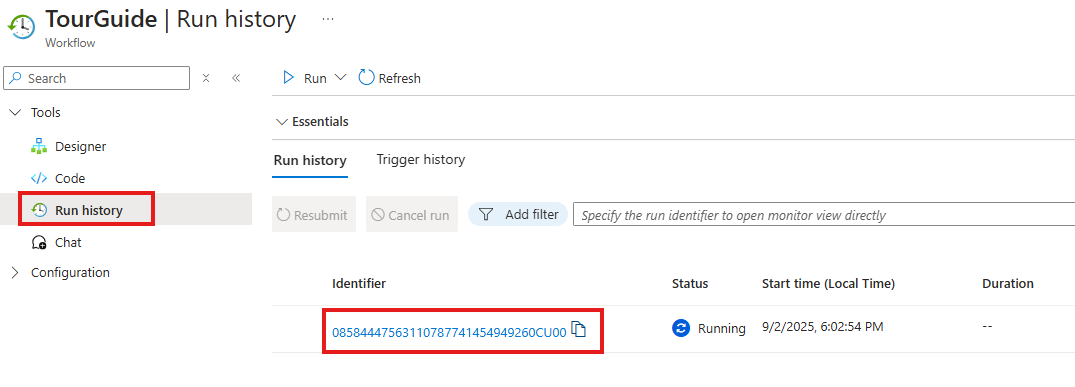
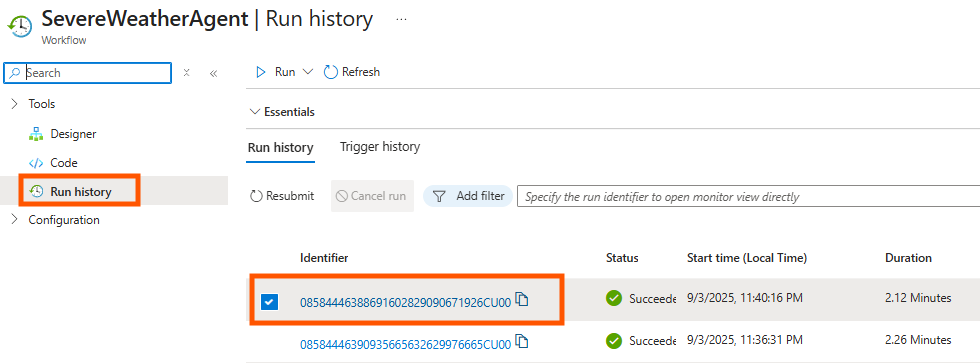
Update screenshots for module 2 and 3

diff --git a/docs/logicapps-ai-course/03_build_autonomous_agents/02-debug-agent.md b/docs/logicapps-ai-course/03_build_autonomous_agents/02-debug-agent.md
@@ -11,12 +11,12 @@ ms.author: absaafan
 In this module you will learn how to observe, inspect, and debug the agent built in Module 01. You will distinguish model (reasoning) issues from workflow or integration issues, view the chat transcript, inspect tool executions, and capture deeper telemetry for ongoing monitoring.
 
 By the end, you will:
-- View run history for agent chat sessions.
+- View run history for agent.
 - Inspect agent reasoning steps and tool invocation details.
 - Locate and review model inputs and outputs safely.
 - Differentiate model misalignment vs connector/action failure.
 
-You continue using the same TourGuide workflow created earlier.
+You continue using the same Severe Weather Advisory Agent workflow created earlier.
 
 ---
 
@@ -28,10 +28,7 @@ You continue using the same TourGuide workflow created earlier.
 ## Debugging overview
 An autonomous agent run consists of: agent loop reasoning (decide, tool, respond); tool executions (workflow actions); model interactions (system + context + user prompt and model replies); workflow runtime (triggers, actions, retries, latency, failures). You drill from run status down to specific reasoning or action artifacts to isolate the cause.
 
-The run history or monitoring view for a conversational agent run consists of the following parts.
-
-#### Task timeline
-The task timeline lets you navigate between different tasks in that chat session and into the steps in each of those tasks. Clicking on the agent execution in a task will load that task and execution into the workflow canvas.
+The run history or monitoring view for an autonomous agent run consists of the following parts.
 
 #### Workflow canvas
 The workflow canvas is the same workflow canvas you might know from your other Azure Logic App workflows. The canvas will show and highlight any tools that have ran in that agent task and action(s) inside that tool.
@@ -40,7 +37,7 @@ The workflow canvas is the same workflow canvas you might know from your other A
 The action panel loads the inputs and outputs of the action you are inspecting. If you are inspecting the agent action, the input will show the most recent input into the agent and the output will show the result of the agent chat completion. There is also a metadata section for agent actions that shows things like token usage for that agent execution.
 
 #### Agent log
-The agent log shows the conversation chat history for that session so far. The agent messages are shown as "Assistant - `{agent name}`" messages and clicking on the hyperlinked agent name will navigate to the task where that output was given by the agent.
+The agent log is read only and shows the history for that session so far. The agent messages are shown as "Assistant - `{agent name}`" messages and clicking on the hyperlinked agent name will navigate to the task where that output was given by the agent.
 It also shows when tools were executed by the agent. The tool names are hyperlinked and clicking on them will navigate you to the task where that tool was executed so you can inspect the inputs and outputs of the action.
 
 ![Screenshot shows the different parts of the run history](media/02-debug-agent/run-history-overview.png)
@@ -49,21 +46,21 @@ It also shows when tools were executed by the agent. The tool names are hyperlin
 
 ### Step 1 - Open run history
 1. In the Logic Apps resource, select Workflows.
-1. Select the TourGuide workflow.
+1. Select the Severe Weather Advisory Agent workflow.
 1. Open the run history.
 
     ![Screenshot shows the run history for the workflow](media/02-debug-agent/logicapp-run-history.png)
 
 ### Step 2 - Review the agent log
-1. Once the run history loads, you will see the agent log on the right side for review. Use the task timeline to go through each step in the different tasks. The amount of steps and tasks will depend on your workflow and chat session.
+1. Once the run history loads, you will see the agent log on the right side for review.
 
-    ![Screenshot shows the task timeline in the run history](media/02-debug-agent/run-history-task-timeline.png)
+    ![Screenshot shows the agent log in the run history](media/02-debug-agent/run-history-task-timeline.png)
 
 ### Step 3 - Inspect agent reasoning and tool calls
 1. Click on the tool execution in the agent log.
-1. This will load the task and step where the agent decided it should make the tool call.
+1. This will load the step where the agent decided it should make the tool call.
 1. Click on the agent action to inspect it
-    - The input will be the message from the user. In our case that will be a message asking the agent to tell us about an art object.
+    - The input will be the agent and user instructions if any. In our case that will be instructions telling the agent how to generate weather report.
     - The output will be the agent making the tool call. You can inspect the "toolArguments" property to see what the agent set the agent parameters to in this execution.
     - The metadata field will let you see the token usage for this request. The prompt tokens are the ones used in the input, this includes the system prompt and the entire chat history passed into the agent, including tool calls and tool results. The completion tokens are the ones used by the model in the response to this call.
     - Inspecting the agent allows you to confirm that the reasoning and execution is working as expected.

diff --git a/docs/logicapps-ai-course/03_build_autonomous_agents/03-connect-tools-external-services.md b/docs/logicapps-ai-course/03_build_autonomous_agents/03-connect-tools-external-services.md
@@ -12,12 +12,11 @@ In this module, you learn how to connect a agent workflow in Azure Logic Apps to
 
 When you finish this module, you'll achieve the goals and complete the tasks in the following list:
 
-- Understand key connector concepts such as actions, connections, authentication, and limits.
+- Understand key connector concepts such as actions, connections, and limits.
 - Add one read-only connector action as a tool that your agent can autonomously and directly call without needing authentication.
-- ptionally add an authenticated connector action as a tool that handles inputs and errors.
 - Apply best practices for safe, reliable tool use in autonomous scenarios.
 
-This module keeps the primary flow simple without using [agent parameters](https://learn.microsoft.com/azure/logic-apps/agent-workflows-concepts#key-concepts) or [on-behalf-of (OBO) authorization](https://learn.microsoft.com/entra/identity-platform/v2-oauth2-on-behalf-of-flow). In Module 04, you learn how to parameterize inputs. In Module 05, you learn how to add OBO authorization.
+This module keeps the primary flow simple without using [agent parameters](https://learn.microsoft.com/azure/logic-apps/agent-workflows-concepts#key-concepts). In Module 04, you learn how to parameterize inputs.
 
 For more information, see [Connectors overview for Azure Logic Apps connectors](https://learn.microsoft.com/azure/connectors/introduction).
 
@@ -75,19 +74,7 @@ The following table helps map the relationship between connector operations and 
 
 To more easily demonstrate the autonomous agent pattern from end to end, this example doesn't use authentication or agent parameters.
 
-### Step 1 - Set up your agent
-
-1. In the [Azure portal](https://portal.azure.com), open your Standard logic app resource.
-
-1. Find and open your autonomous agent workflow in the designer.
-
-   ![Screenshot shows designer with autonomous agent workflow.](media/03-connect-tools-external-services/start.png)
-
-1. On the designer, select the agent action. On the agent information pane, for the system instructions, enter **You're an agent that provides weather information.**
-
-   ![Screenshot shows agent information pane and system instructions.](media/03-connect-tools-external-services/system-instructions.png)
-
-### Step 2 - Add a tool for your agent
+### Step 1 - Add a tool for your agent
 
 1. On the designer, inside the agent and under **Add tool**, select the plus sign (+) to open the pane where you can browse available actions.
 
@@ -106,7 +93,7 @@ To more easily demonstrate the autonomous agent pattern from end to end, this ex
 
    ![Screenshot shows MSN Weather action and tool.](media/03-connect-tools-external-services/get-current-weather-tool.png)
 
-### Step 3 - Set up the connector action
+### Step 2 - Set up the connector action
 
 1. In the **Get current weather** action, provide the following information:
 
@@ -121,17 +108,7 @@ To more easily demonstrate the autonomous agent pattern from end to end, this ex
 
 1. Save your workflow.
 
-### Step 4 - Test your weather tool in chat
-
-1. On the designer toolbar, select **Chat**.
-
-1. In the chat client interface, ask the following question: **What is the current weather in Seattle?**
-
-1. Check that the response is what you expect, for example:
-
-   ![Screenshot shows chat client interface.](media/03-connect-tools-external-services/portal-chat.png)
-
-### Step 5 - Check tool in monitoring view
+### Step 3 - Check tool in monitoring view
 
 1. On the workflow sidebar, under **Tools**, select **Run history**.
 
@@ -174,16 +151,6 @@ Now, you'll learn to add a tool that requires authentication. This module uses s
 
 1. Save your workflow.
 
-### Step 4 - Test your GitHub tool in chat
-
-1. On the designer toolbar, select **Chat**.
-
-1. In the chat user interface, ask the following question: **Show me the details of the demo GitHub issue.**
-
-1. Check that the response is what you expect.
-
-1. Go to monitoring view. Confirm that the agent succesfully called the tool and ran the action.
-
 ## Troubleshoot problems
 
 | Error or problem | Action to try |
@@ -221,7 +188,7 @@ Here's a recap for the pattern to use:
 
 1. Set up the action with the necessary parameter inputs.
 
-1. Test your tool in chat. Check monitoring view to confirm successful tool calls.
+1. Test your tool. Check monitoring view to confirm successful tool calls.
 
 ## Clean up resources
 
